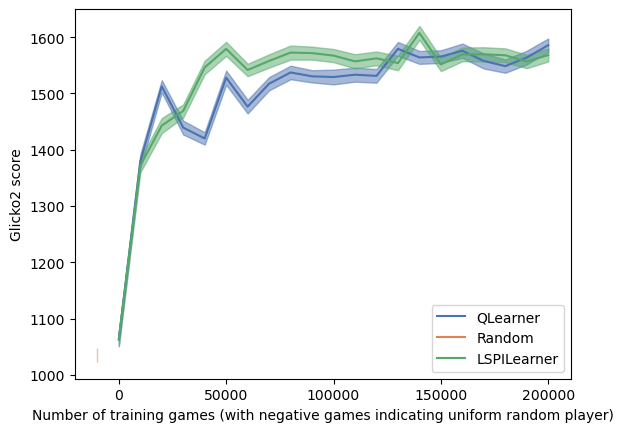
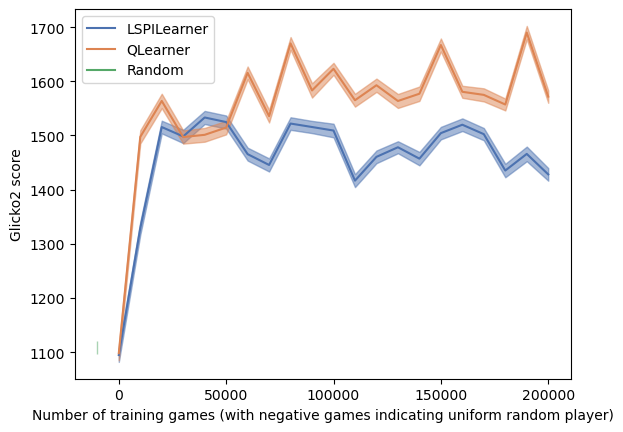
clean-ups

diff --git a/src/models/agents/LSPI_bagging.py b/src/models/agents/LSPI_bagging.py
@@ -19,6 +19,8 @@ from __future__ import division
 from __future__ import print_function
 
 import collections
+import random
+
 import numpy as np
 
 from open_spiel.python import rl_agent
@@ -27,12 +29,14 @@ from sklearn import linear_model
 from sklearn import metrics
 from agents.nn import build_model
 import keras
+import os
+from joblib import Parallel, delayed
 
 
 class keydefaultdict(collections.defaultdict):
     def __missing__(self, key):
         if self.default_factory is None:
-            raise KeyError( key )
+            raise KeyError(key)
         else:
             ret = self[key] = self.default_factory(key)
             return ret
@@ -48,7 +52,7 @@ class LSPILearner(rl_agent.AbstractAgent):
                  player_id,
                  num_actions,
                  step_size=0.1,
-                 epsilon_schedule=rl_tools.ConstantSchedule(0.2),
+                 epsilon_schedule=rl_tools.ConstantSchedule(0.0),
                  discount_factor=1.0,
                  centralized=False,
 
@@ -69,20 +73,11 @@ class LSPILearner(rl_agent.AbstractAgent):
         self.episode_length = 0
         self.model = None
 
-    def __getstate__(self):
-        state = dict(self.__dict__)
-        del state['_q_values']
-        return state
-
-    def __setstate__(self, state):
-        self.__dict__ = state
-        self._reset_dict()
-
     def _reset_dict(self):
         self._q_values = keydefaultdict(self._default_value)
 
     def _default_value(self, key):
-        if(self.model is None):
+        if (self.model is None):
             return 0
         else:
             state_features, action = list(key[0]), list(key[1])[0]
@@ -90,11 +85,12 @@ class LSPILearner(rl_agent.AbstractAgent):
             if (action is not None):
                 action_features[action] = 1
             total_features = state_features + action_features
-            phi = np.array(total_features)[np.newaxis,:]
-            value = self.model(phi)
-            #print(value)
+            phi = np.array(total_features)[np.newaxis, :]
+            model = random.choice(self.model)
+            value = model(phi)
+            # print(value)
 
-            #print(value)
+            # print(value)
             return value[0][0]
 
     def _epsilon_greedy(self, info_state, legal_actions, epsilon):
@@ -114,12 +110,12 @@ class LSPILearner(rl_agent.AbstractAgent):
         # q_values[info_state][a]  transformed to q_values[tuple(info_state) + tuple(a)]
         probs = np.zeros(self._num_actions)
 
-
-        greedy_q = max([self._q_values[tuple(info_state),tuple([a])] for a in legal_actions])
+        greedy_q = max([self._q_values[tuple(info_state), tuple([a])] for a in
+                        legal_actions])
 
         greedy_actions = [
             a for a in legal_actions if
-            self._q_values[tuple(info_state),tuple([a])] == greedy_q
+            self._q_values[tuple(info_state), tuple([a])] == greedy_q
         ]
         probs[legal_actions] = epsilon / len(legal_actions)
         probs[greedy_actions] += (1 - epsilon) / len(greedy_actions)
@@ -157,30 +153,23 @@ class LSPILearner(rl_agent.AbstractAgent):
             target = time_step.rewards[self._player_id]
             if not time_step.last():  # Q values are zero for terminal.
                 target += self._discount_factor * max(
-                    [self._q_values[tuple(info_state),tuple([a])] for a in legal_actions])
+                    [self._q_values[tuple(info_state), tuple([a])] for a in
+                     legal_actions])
 
             prev_q_value = self._q_values[tuple(self._prev_info_state),
-                tuple([self._prev_action])]
+                                          tuple([self._prev_action])]
             self._last_loss_value = target - prev_q_value
             self._q_values[tuple(self._prev_info_state),
-                tuple([self._prev_action])] += (
+                           tuple([self._prev_action])] += (
                     self._step_size * self._last_loss_value)
 
-
-
-
             self._epsilon = self._epsilon_schedule.step()
-            self.episode_length+=1
+            self.episode_length += 1
             if time_step.last():  # prepare for the next episode.
                 self._prev_info_state = None
-                self._n_games +=1
-                #print(self.episode_length)
+                self._n_games += 1
+                # print(self.episode_length)
                 self.episode_length = 0
-
-
-
-
-
 
                 return
 
@@ -205,7 +194,7 @@ class LSPILearner(rl_agent.AbstractAgent):
                     key[0]), key[1]
 
                 action_features = list(
-                     np.zeros(shape=self._num_actions))
+                    np.zeros(shape=self._num_actions))
                 action_features[action[0]] = 1
                 total_features = state_features + action_features
                 all_Qs.append(q_value)
@@ -215,23 +204,41 @@ class LSPILearner(rl_agent.AbstractAgent):
         X = np.array(all_features)
         y = np.array(all_Qs)
 
-        import keras.backend as K
-        import tensorflow as tf
-        session_conf = tf.ConfigProto(
-            intra_op_parallelism_threads=1,
-            inter_op_parallelism_threads=1)
-        sess = tf.Session(config=session_conf)
-        K.set_session(sess)
+        # reduce number of threads
+        os.environ['TF_NUM_INTEROP_THREADS'] = '1'
+        os.environ['TF_NUM_INTRAOP_THREADS'] = '1'
+        os.environ['TF_CPP_MIN_LOG_LEVEL'] = '3'
+        #import keras.backend as K
+        keras.backend.clear_session()
 
-        self.model = build_model(X.shape[1])
+        def fit(model, X, y, callbacks):
+            model.fit(X,
+                      y,
+                      epochs=10000,
+                      verbose=False,
+                      callbacks=callbacks)
+            return model
 
-        callback = keras.callbacks.EarlyStopping(monitor='loss',
-                                                        patience=10)
-        self.model.fit(X, y, epochs=10000, verbose=False, callbacks = [callback])
-        mse = metrics.mean_squared_error(y, self.model.predict(X,
+        models_and_features = []
+        n_ensemble = 20
+        for _ in range(n_ensemble):
+            model = build_model(X.shape[1])
+            bootstrap = np.random.choice(len(X), replace=True, size=len(X))
+            callback = keras.callbacks.EarlyStopping(monitor='loss',
+                                                     patience=10)
+
+            models_and_features.append([model, bootstrap, callback])
+
+        models = Parallel(n_jobs=10)(delayed(fit)(model, X[bootstrap],
+                                                  y[bootstrap],
+                                                  callbacks=[callback])
+                                     for model, bootstrap, callback in
+                                     models_and_features)
+
+        for model in models:
+            mse = metrics.mean_squared_error(y, model.predict(X,
+                                                              verbose=False))
+            r2 = metrics.explained_variance_score(y, model.predict(X,
                                                                    verbose=False))
-        r2 = metrics.explained_variance_score(y, self.model.predict(X,
-                                                                        verbose=False))
-
-        print(mse, r2)
-
+            #print(mse, r2)
+        self.model = models

diff --git a/src/models/agents/LSPI_sk.py b/src/models/agents/LSPI_sk.py
@@ -40,6 +40,7 @@ from sklearn.preprocessing import StandardScaler
 from sklearn.pipeline import Pipeline
 from joblib import dump
 from sklearn.preprocessing import PolynomialFeatures
+from lightgbm import LGBMRegressor
 
 
 class keydefaultdict(collections.defaultdict):
@@ -82,14 +83,7 @@ class LSPILearner(rl_agent.AbstractAgent):
         self.episode_length = 0
         self.model = None
 
-    def __getstate__(self):
-        state = dict(self.__dict__)
-        del state['_q_values']
-        return state
 
-    def __setstate__(self, state):
-        self.__dict__ = state
-        self._reset_dict()
 
     def _reset_dict(self):
         self._q_values = keydefaultdict(self._default_value)
@@ -226,27 +220,7 @@ class LSPILearner(rl_agent.AbstractAgent):
         X = np.array(all_features)
         y = np.array(all_Qs)
 
-        # tweedie_pipeline = [("features", PolynomialFeatures()),
-        #                     ('scaler', StandardScaler()),
-        #                     ('clf', TweedieRegressor())]
-        #
-        # clf_tweedie = GridSearchCV(Pipeline(tweedie_pipeline), param_grid={
-        #     "clf__power": [0, 2, 3] + list(np.arange(1, 2, 0.1)),
-        #     "clf__alpha": [0.5, 0.1, 0.01, 0.001, 1, 2, 10, 20],
-        #     "features__degree": [1, 2],
-        #     "clf__max_iter": [10000]
-        # },
-        #                            n_jobs=2, cv=10,
-        #                            scoring="neg_mean_squared_error", verbose=100)
-        # clf_tweedie.fit(X,y)
-
-        # clf = GridSearchCV(DecisionTreeRegressor(),
-        #                    param_grid={
-        #                        "min_weight_fraction_leaf": [1 / (2 ** 3.5)]},
-        #                    n_jobs=-1, cv=10, scoring="neg_mean_squared_error")
-
-
-        clf = LassoLarsCV()
+        clf = LGBMRegressor()
 
         clf.fit(X,y)
         self.model = clf

diff --git a/src/visualization/calculate_glicko2_scores.py b/src/visualization/calculate_glicko2_scores.py
@@ -7,15 +7,10 @@ import seaborn as sns
 from pathlib import Path
 
 
-@click.command()
-@click.argument('input_filepath', type=click.Path(exists=True))
-def main(input_filepath):
+def calculate_glicko_scores(input_filepath):
     # project_dir = Path(__file__).resolve().parents[2]
     df = pd.read_csv(input_filepath, index_col=0)
 
-    path = Path(input_filepath).parents[0]
-    name = Path(input_filepath).stem
-    df_filename = f"{path}/{name}_glicko.csv"
     all_players = set(pd.concat([df["player_1"], df["player_2"]]))
 
     env = Glicko2(tau=0.5)
@@ -63,7 +58,18 @@ def main(input_filepath):
         rated = env.rate(ratings[player][0], games)
         new_ratings[player] = rated, ratings[player][1], ratings[player][2]
         print(player, rated)
-    # start the visualisation
+    return new_ratings
+    
+
+@click.command()
+@click.argument('input_filepath', type=click.Path(exists=True))
+def main(input_filepath):
+
+    new_ratings = calculate_glicko_scores(input_filepath)
+
+    path = Path(input_filepath).parents[0]
+    name = Path(input_filepath).stem
+    df_filename = f"{path}/{name}_glicko.csv"
 
     map_results = {"n_games": [],
                    "glicko2": [],

diff --git a/src/models/train_agents.py b/src/models/train_agents.py
@@ -83,7 +83,7 @@ def main(game_name, agent_class, comparison_point,  training_episodes):
                                           deepcopy(agent_before_previous_agent),
                                                           1000, 0.1)
 
-                        
+
 
                         scores_before_previous = np.array(scores_before_previous)
 
